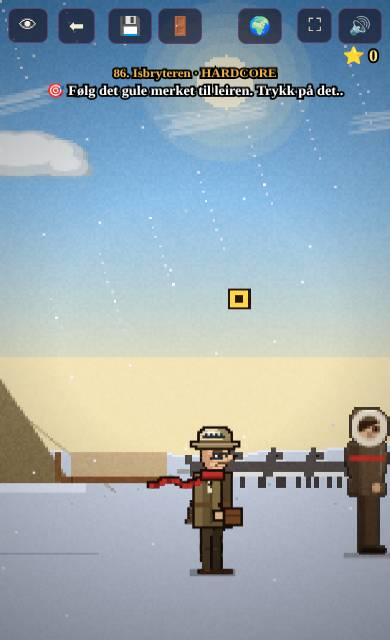
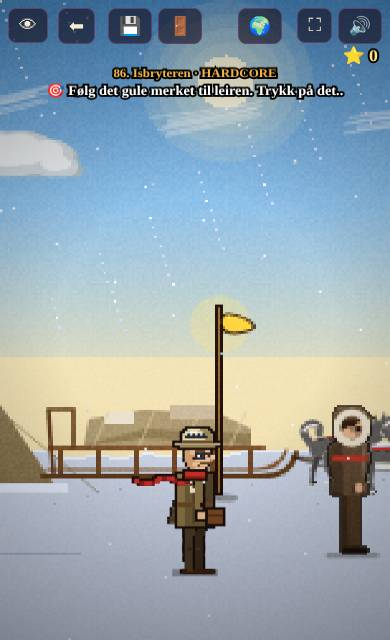
Kontroll v0.12.4: 10 bestått, 5 feil, 1 ikke kontrollert
Claude-Session: https://claude.ai/code/session_016adYaoR8oVrA1ekqGxhYjE

Changed region(s): [[0.0, 0.4375, 1.0, 0.9062], [0.1538, 0.2188, 0.2462, 0.2812], [0.0923, 0.1875, 0.1538, 0.2188]]

diff --git a/KONTROLL.md b/KONTROLL.md
@@ -1,10 +1,10 @@
-# Uavhengig kontroll – v0.12.3
+# Uavhengig kontroll – v0.12.4
 
 Kontrollert 8. nov 2026 av en egen kontrolltråd, ikke av byggetråden.
 
-**Slik ble det testet:** Chromium i portrett mobilstørrelse 390×844 med berøring. Koden som ble testet er commit `49040cf` på `main`, altså nøyaktig det GitHub Pages viser. Selve live-adressen er sperret fra testmaskinen, derfor kjørte jeg den samme koden lokalt. Testknappene på forsiden ble brukt for alle 12 land. Natt ble tvunget fram med `HOV=23.5`. Storm ble tvunget fram med `WX.on=1` og `MK[land].wx=()=>1`. Fabeldyrene ble oppsøkt ved å flytte professoren til posisjonene deres.
+**Slik ble det testet:** Chromium i portrett mobilstørrelse 390×844 med berøring. Koden som ble testet er commit `700e4e2` på `main`, altså nøyaktig det GitHub Pages viser. Selve live-adressen er sperret fra testmaskinen, derfor kjørte jeg den samme koden lokalt. Testknappene på forsiden ble brukt for alle 12 land. Natt ble tvunget fram med `HOV=23.5`. Storm ble tvunget fram med `WX.on=1` og `MK[land].wx=()=>1`. Fabeldyrene ble oppsøkt ved å flytte professoren til posisjonene deres.
 
-**Resultat: 9 BESTÅTT · 6 FEIL · 1 ikke kontrollert**
+**Resultat v0.12.4: 10 BESTÅTT · 5 FEIL · 1 ikke kontrollert** (v0.12.3: 9 · 6 · 1)
 
 | # | Punkt | Status | Funn |
 |---|---|---|---|
@@ -16,14 +16,18 @@ Kontrollert 8. nov 2026 av en egen kontrolltråd, ikke av byggetråden.
 | 6 | Plantene står stille når man går (Japan) | ✅ BESTÅTT (kode og bilder) | Tegnekoden for Japan bruker hverken `P.x` eller `camX`, så plantenes svai er ikke koblet til at professoren går. |
 | 7 | Dyrene skiller seg fra bakken | ✅ BESTÅTT | Alle dyr og vesener jeg så har mørk kontur og skygge, og står tydelig fram. |
 | 8 | Oppgavene er ulike i hvert land | ❌ FEIL | I `CH[26..205].mini` brukes bare 4 minispill i fast rekkefølge: slide → hanoi → cube → lights, 45 ganger hver. Quizene har eget tema per land, men bare 3 formater (skriv/velg/brikker) som går igjen. |
-| 9 | Kjøring tar deg til et nytt område | ✅ BESTÅTT | `drive()` kjører nå minst ca. 23 m til et annet navngitt sted, og den sier hvor. Merknad: i den engelske versjonen er replikken blandet: «…we will take a trip to X **og ser oss om**». Avstandene er fortsatt bare innenfor samme stripe på ca. 140 m. |
+| 9 | Kjøring tar deg til et nytt område | ✅ BESTÅTT | `drive()` kjører nå minst ca. 23 m til et annet navngitt sted, og den sier hvor. Den blandede engelske replikken er rettet i v0.12.4. Avstandene er fortsatt bare innenfor samme stripe på ca. 140 m. |
 | 10 | Myke og elegante overganger etter fly og ved dører | ❌ FEIL | Etter hver testknapp vises et mørkt havnekontor i flere sekunder med teksten «🎯 Mekanismen må løses.», som er feil tekst, før landet dukker opp. Dørene bruker iris-overgang (`goRoom` → `irisTo`), og det ser greit ut. ![](kontroll/ankomst-mekanismen.jpg) |
 | 11 | Professoren klarer å løpe i storm | ✅ BESTÅTT | Med storm tvunget på flyttet han seg 252 enheter på 2,5 s, samme fart som i rolig vær, i 10 av 12 land. |
 | 12 | Hint i tre nivåer og synlig tilbakemelding i alle minispill | ⚪ IKKE KONTROLLERT | Dette krever at jeg spiller gjennom minispill, og det rakk jeg ikke denne runden. Neste kontroll tar det. |
 | 13 | Naturlig verden: vind i trærne, lys om natta og lignende | ❌ FEIL | Natt fungerer (mørk himmel, nordlys i Polen, lys i vinduene på småbrukene). Storm i Del 2-landene er bare regnstreker, og trærne beveger seg ikke mer. I USA, Sahara-strippen og Dubai skjer det ingenting synlig når «storm» tvinges fram, bortsett fra sandstormen i Sahara. |
 | 14 | Fossen i Skottland er stor og imponerende | ✅ BESTÅTT | Foyers-fossen er nå høy og går i to trinn, med dusj. Den fyller hele skjermhøyden. Merknad: vannet forsvinner rett i gresset, uten kulp eller elv. ![](kontroll/skottland-foss.jpg) |
 | 15 | Fabeldyrene er gjenkjennelige ut fra sagnene (brownien) | ✅ BESTÅTT | Brownien er nå en liten lodden mann med feiekost, slik han beskrives i sagnene (han gjør husarbeid om natta). Brownien er et ekte skotsk sagnvesen. ![](kontroll/skottland-brownie.jpg) |
-| 16 | Polen: hundene ser ut som hunder og sleden som en slede, polfolket er ikke klosser, og det gule merket står ikke på himmelen | ❌ FEIL | Hundene er fortsatt grå strekfigurer, og sleden er en flat brun planke. Det gule merket svever høyt oppe på himmelen over leiren. Inuitten med pelshette ser bra ut. ![](kontroll/pol-slede-merke.jpg) ![](kontroll/panorama-pol.jpg) |
+| 16 | Polen: hundene ser ut som hunder og sleden som en slede, polfolket er ikke klosser, og det gule merket står ikke på himmelen | ✅ BESTÅTT (v0.12.4) | Sleden har nå meier og ramme, og hundene har hode, ører og hale. Merket er et gult flagg på en stang på bakken. Inuitten med pelshette ser bra ut. ![](kontroll/pol-slede-merke.jpg) |
+
+Ellers uendret i v0.12.4: havet (punkt 2), antall fabeldyr (3), oppgaverekkefølgen (8), havnekontoret med «Mekanismen må løses» etter ankomst (10) og stormen (13). Kompassgåten i introen kan fortsatt løses.
+
+Panorama av Australia (nye kenguruer): ![](kontroll/panorama-australia.jpg)
 
 Panorama av Skottland: ![](kontroll/panorama-skottland.jpg)
 
